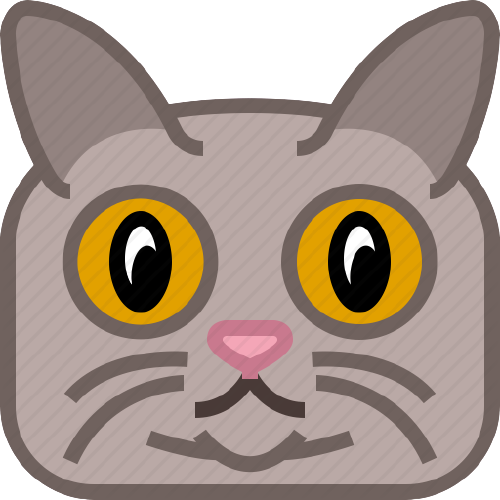
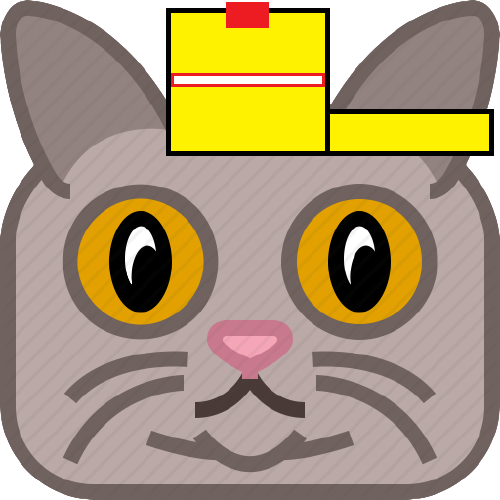
Cats and furballs now flip based on direction

diff --git a/Assets/Scripts/Gameplay/Cat.cs b/Assets/Scripts/Gameplay/Cat.cs
@@ -1,9 +1,7 @@
 using System.Collections;
-using System.Collections.Generic;
 using UnityEngine;
 using Photon.Pun;
 using System;
-using System.Runtime.InteropServices.ComTypes;
 
 [RequireComponent(typeof(UserInput))]
 [RequireComponent(typeof(Rigidbody2D))]
@@ -11,7 +9,7 @@ public class Cat : MonoBehaviourPun
 {
     public PhotonView pv;
     [SerializeField] private float _speed = 5;
-    [Range(1,4)][SerializeField] private int _furLevel=4; //will act like a weight, too (probably?)
+    [Range(1,40)][SerializeField] private int _furLevel=4; //will act like a weight, too (probably?)
     [SerializeField] [Range(1, 9)] private int _hearts;
     [SerializeField] private bool _canBeHit = true;
     [SerializeField] private float invincibility;
@@ -20,16 +18,18 @@ public class Cat : MonoBehaviourPun
     [SerializeField] private Transform _throwPoint;
     [SerializeField] private float _throwWaitTime = 0.2f;
     [SerializeField] private bool _isAttacking=false;
-    [SerializeField]private GameObject _furBallPrefab;
+    [SerializeField] private GameObject _furBallPrefab;
     [SerializeField] private float _pushImpact=5f;
     [SerializeField] private bool _hitted=false;
     [SerializeField] private float _hittedWaitTime = 0.2f;
+
     
     private BoxCollider2D _boxCollider;
     private Vector3 smoothMove;
     private UserInput userInput;
     private Rigidbody2D rb;
     public FeetCollider _feetCollider;
+    private SpriteRenderer _SR;
     
     private void Awake()
     {
@@ -37,6 +37,7 @@ public class Cat : MonoBehaviourPun
         rb = GetComponent<Rigidbody2D>();
         _boxCollider = GetComponent<BoxCollider2D>();
         _feetCollider = GetComponentInChildren<FeetCollider>();
+        _SR = GetComponent<SpriteRenderer>();
     }
 
     private void Update()
@@ -68,12 +69,7 @@ public class Cat : MonoBehaviourPun
         }
     }
 
-    /*private void smoothMovement()
-    {
-        //gets the new position of OTHER cats (according to when is this function called), and smoothes the transition between their past position and new one
-        transform.position = Vector3.Lerp(transform.position, smoothMove, Time.deltaTime * 10);
 
-    }*/
 
     private void Jump() //simple
     {
@@ -89,18 +85,20 @@ public class Cat : MonoBehaviourPun
         float move = userInput.movementInput.x;
         //transform.position += move * _speed * Time.deltaTime;
         rb.velocity=new Vector2(move*_speed,rb.velocity.y);
+
+        //YASEEN: Flip spirit when moving to the other direction
+        if (rb.velocity.x < 0)
+        {
+            rb.transform.localScale = new Vector2(-Math.Abs(rb.transform.localScale.x), transform.localScale.y);
+            //_SR.flipX = true;
+
+        } else if (rb.velocity.x > 0)
+        {
+            rb.transform.localScale = new Vector2(Math.Abs(rb.transform.localScale.x), transform.localScale.y);
+            //_SR.flipX = false;
+        }
     }
     
-    /*public void OnPhotonSerializeView(PhotonStream stream, PhotonMessageInfo info) //manages read/write streams to the server
-    {
-        if (stream.IsWriting)
-        {
-            stream.SendNext(transform.position); // sends our current position to everbody else
-        } else if (stream.IsReading)
-        {
-            smoothMove = (Vector3) stream.ReceiveNext();
-        }
-    }*/
 
     public void Die(String cause) { 
         _hearts -= 1; 
@@ -164,7 +162,16 @@ public class Cat : MonoBehaviourPun
         Debug.Log("Furball RPC");
         float lag = (float) (PhotonNetwork.Time - info.SentServerTime);
         GameObject fb=Instantiate(_furBallPrefab, pos, q);
-        fb.GetComponent<FurBall>().SetData(photonView.Owner,Mathf.Abs(lag));
+
+
+        //YASEEN: 'oppositeDirection' Passes the info of the direction to the lil cute Furball <3 
+        bool oppositeDirection =false;
+        if (rb.transform.localScale.x < 0)
+        {
+            oppositeDirection = true;
+        }
+
+        fb.GetComponent<FurBall>().SetData(photonView.Owner,Mathf.Abs(lag),oppositeDirection);
         
     }
 } 

diff --git a/Assets/Scripts/Gameplay/FurBall.cs b/Assets/Scripts/Gameplay/FurBall.cs
@@ -33,6 +33,10 @@ public class FurBall : MonoBehaviour
 
     private void FixedUpdate()
     {
+
+        //YASEEN: Revese speed if player facing other direction
+
+
         //if(!hit)
             _transform.position = _transform.position + _speed * Time.fixedDeltaTime * direction;
         if (_transform.position.x > _rightLimit || _transform.position.x <_leftLimit)
@@ -48,10 +52,17 @@ public class FurBall : MonoBehaviour
         Destroy(gameObject);
     }
 
-    public void SetData(Player owner, float lag)
+    public void SetData(Player owner, float lag, bool oppositeDirection)
     {
         Launcher = owner;
         _lag = lag;
+
+        //YASEEN: if oppositeDirection, then the speed is flipped, too :P
+        if (oppositeDirection)
+        {
+            _speed *= -1;
+        }
+
         _rigidbody.velocity = direction * _speed;
         _rigidbody.position += _rigidbody.velocity * lag;
     }

diff --git a/Assets/Photon/PhotonUnityNetworking/Code/Views/PhotonTransformView.cs b/Assets/Photon/PhotonUnityNetworking/Code/Views/PhotonTransformView.cs
@@ -28,7 +28,7 @@ namespace Photon.Pun
 
         public bool m_SynchronizePosition = true;
         public bool m_SynchronizeRotation = true;
-        public bool m_SynchronizeScale = false;
+        public bool m_SynchronizeScale = true;
 
         bool m_firstTake = false;
 
